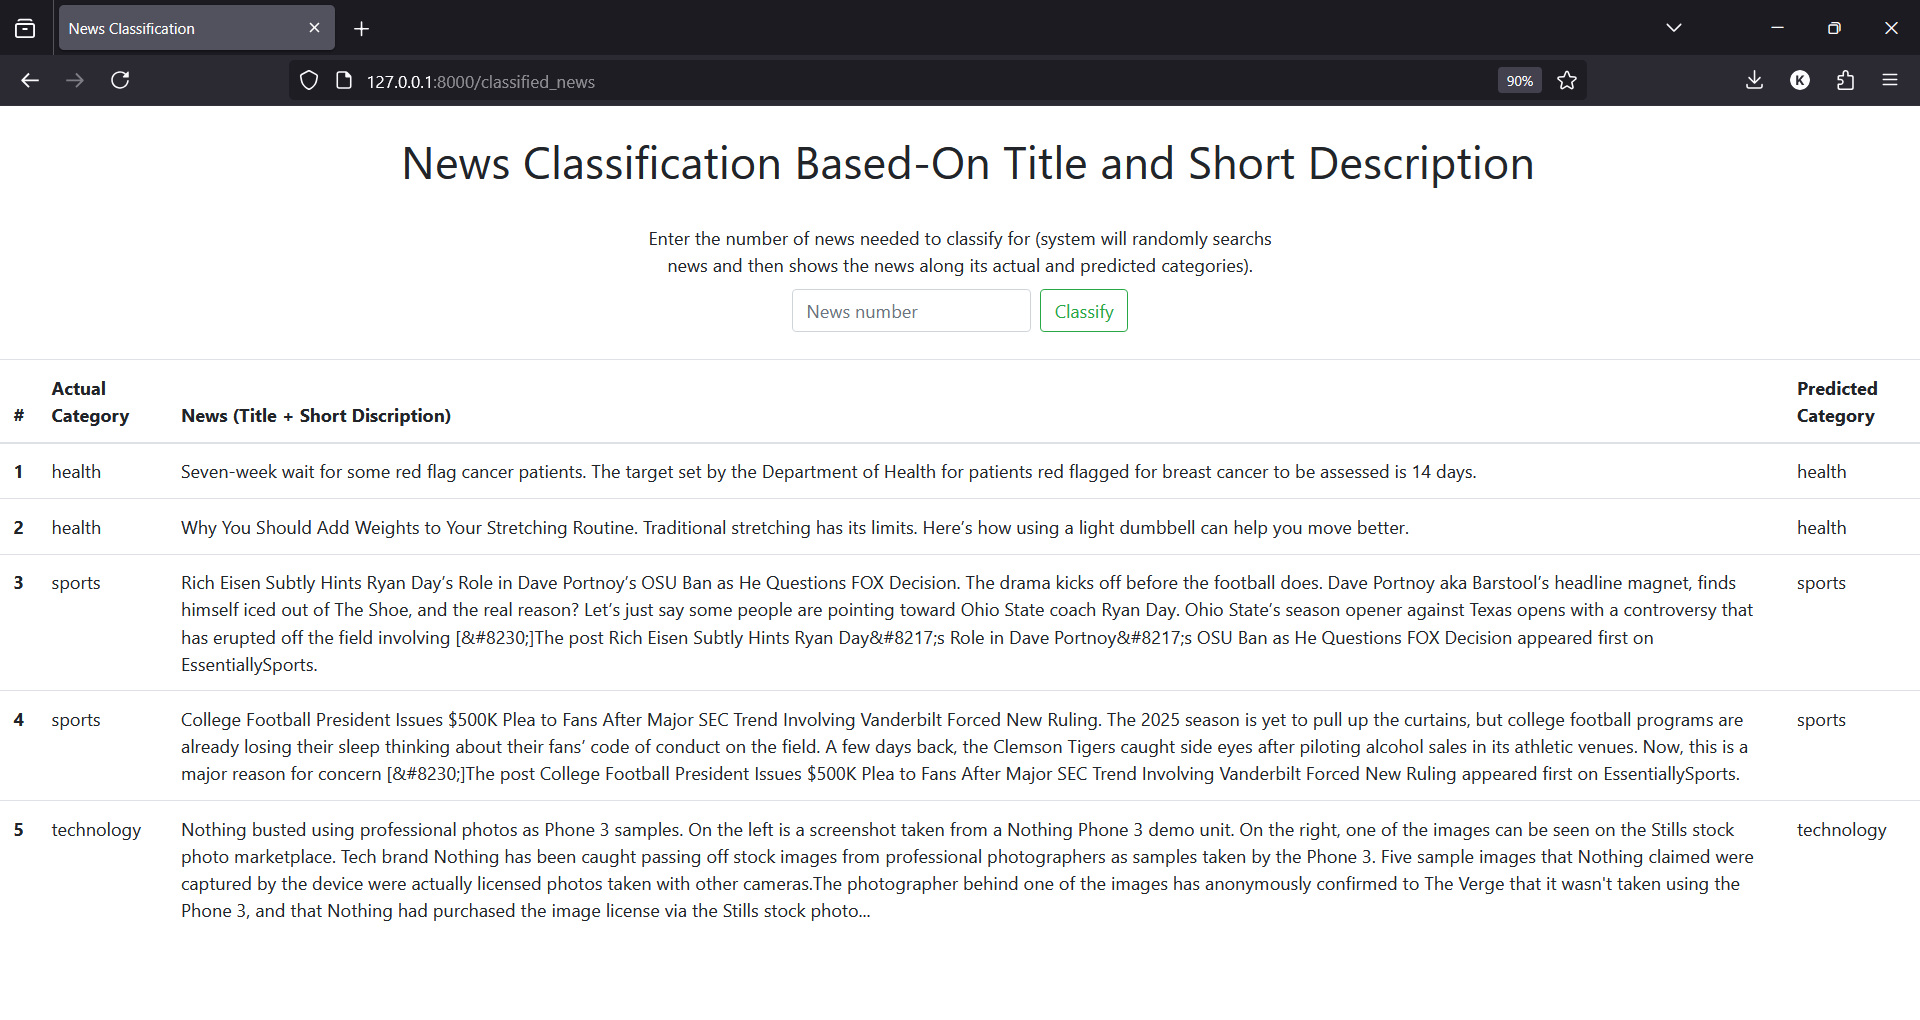
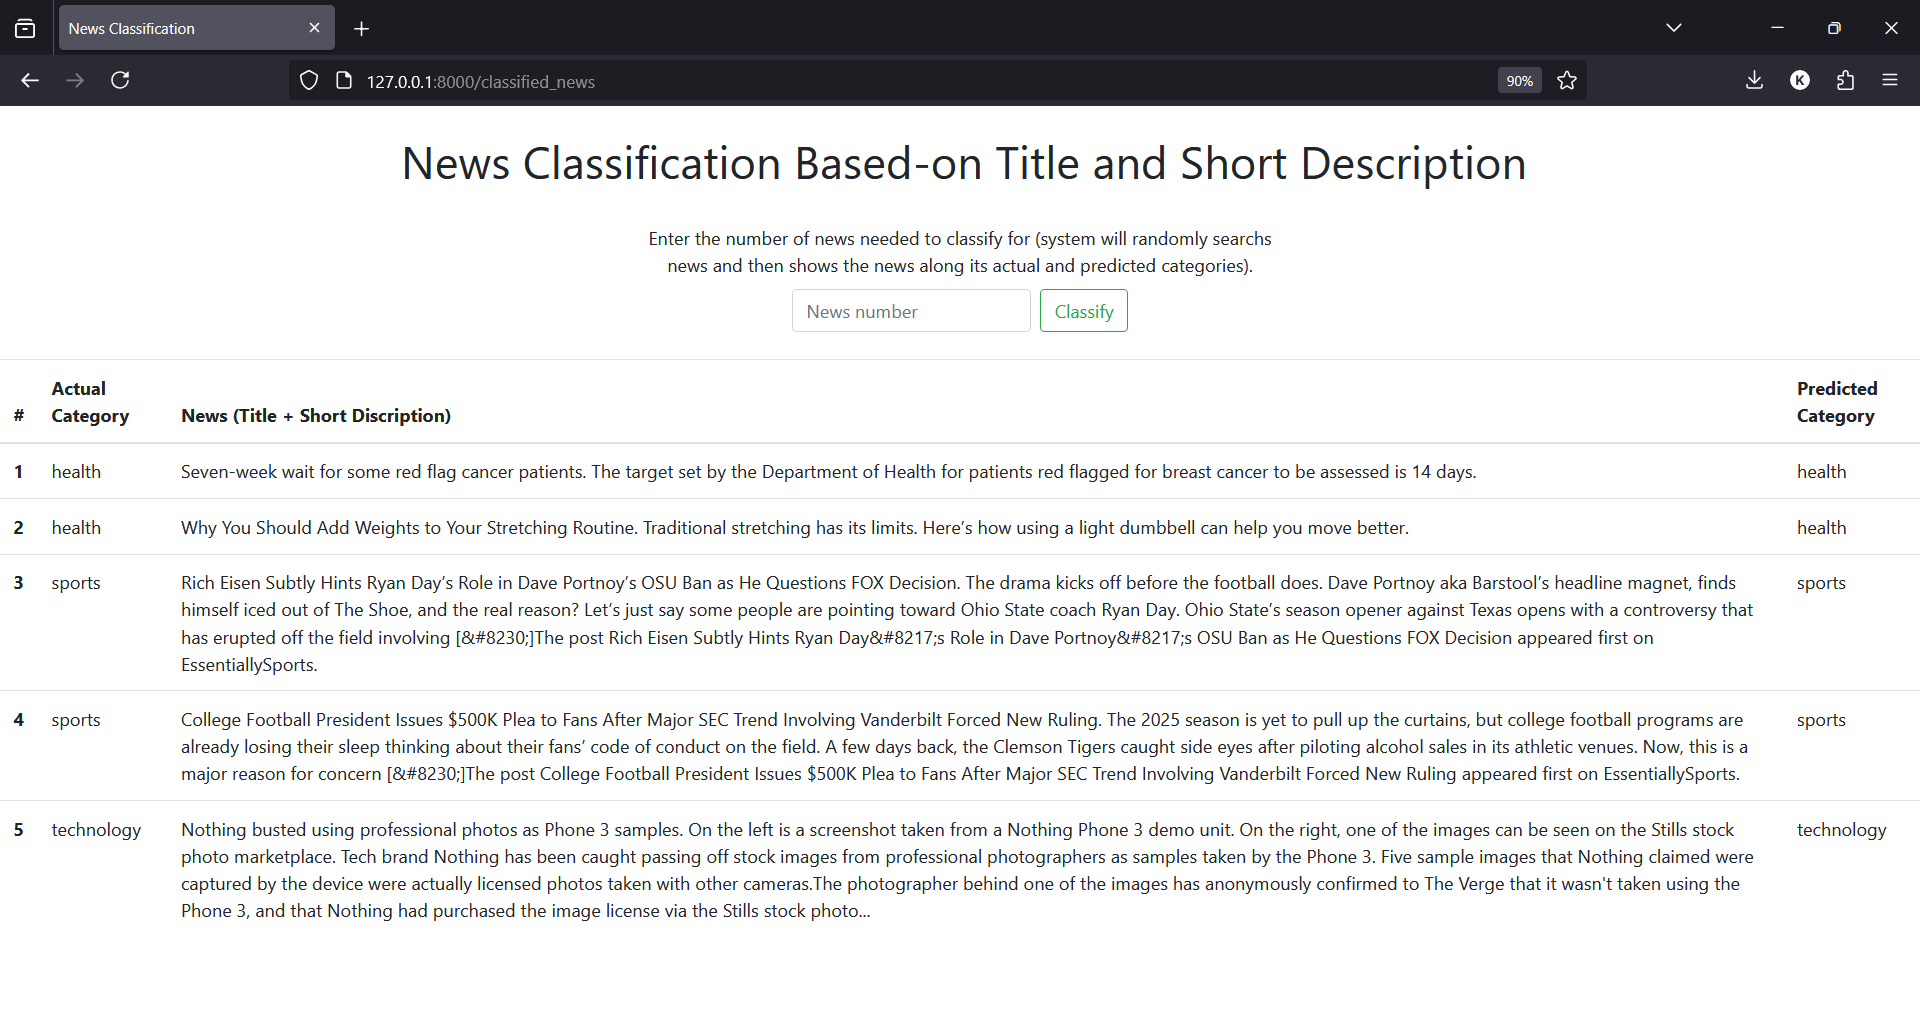
Fixed a title word

Changed region(s): [[0.2812, 0.1216, 0.8125, 0.1824]]

diff --git a/templates/classified_news.html b/templates/classified_news.html
@@ -17,7 +17,7 @@
 
     <!-- headline showing project name -->
     <br>
-    <h1 class="headline">News Classification Based-On Title and Short Description</h1>
+    <h1 class="headline">News Classification Based-on Title and Short Description</h1>
     <br>
 
     <!-- text box for entering news number needed to classify for -->

diff --git a/templates/index.html b/templates/index.html
@@ -17,7 +17,7 @@
 
     <!-- headline showing project name -->
     <br>
-    <h1 class="headline">News Classification Based-On Title and Short Description</h1>
+    <h1 class="headline">News Classification Based-on Title and Short Description</h1>
     <br>
 
     <!-- text box for entering news number needed to classify for -->

diff --git a/README.md b/README.md
@@ -1,4 +1,4 @@
-# News Classification Based-On Title and Short Description
+# News Classification Based-on Title and Short Description
 This project uses the [News Category Dataset](https://www.kaggle.com/datasets/rmisra/news-category-dataset) as the primary dataset to train logistic model enabling news classification 
 based-on title and short description.
 
